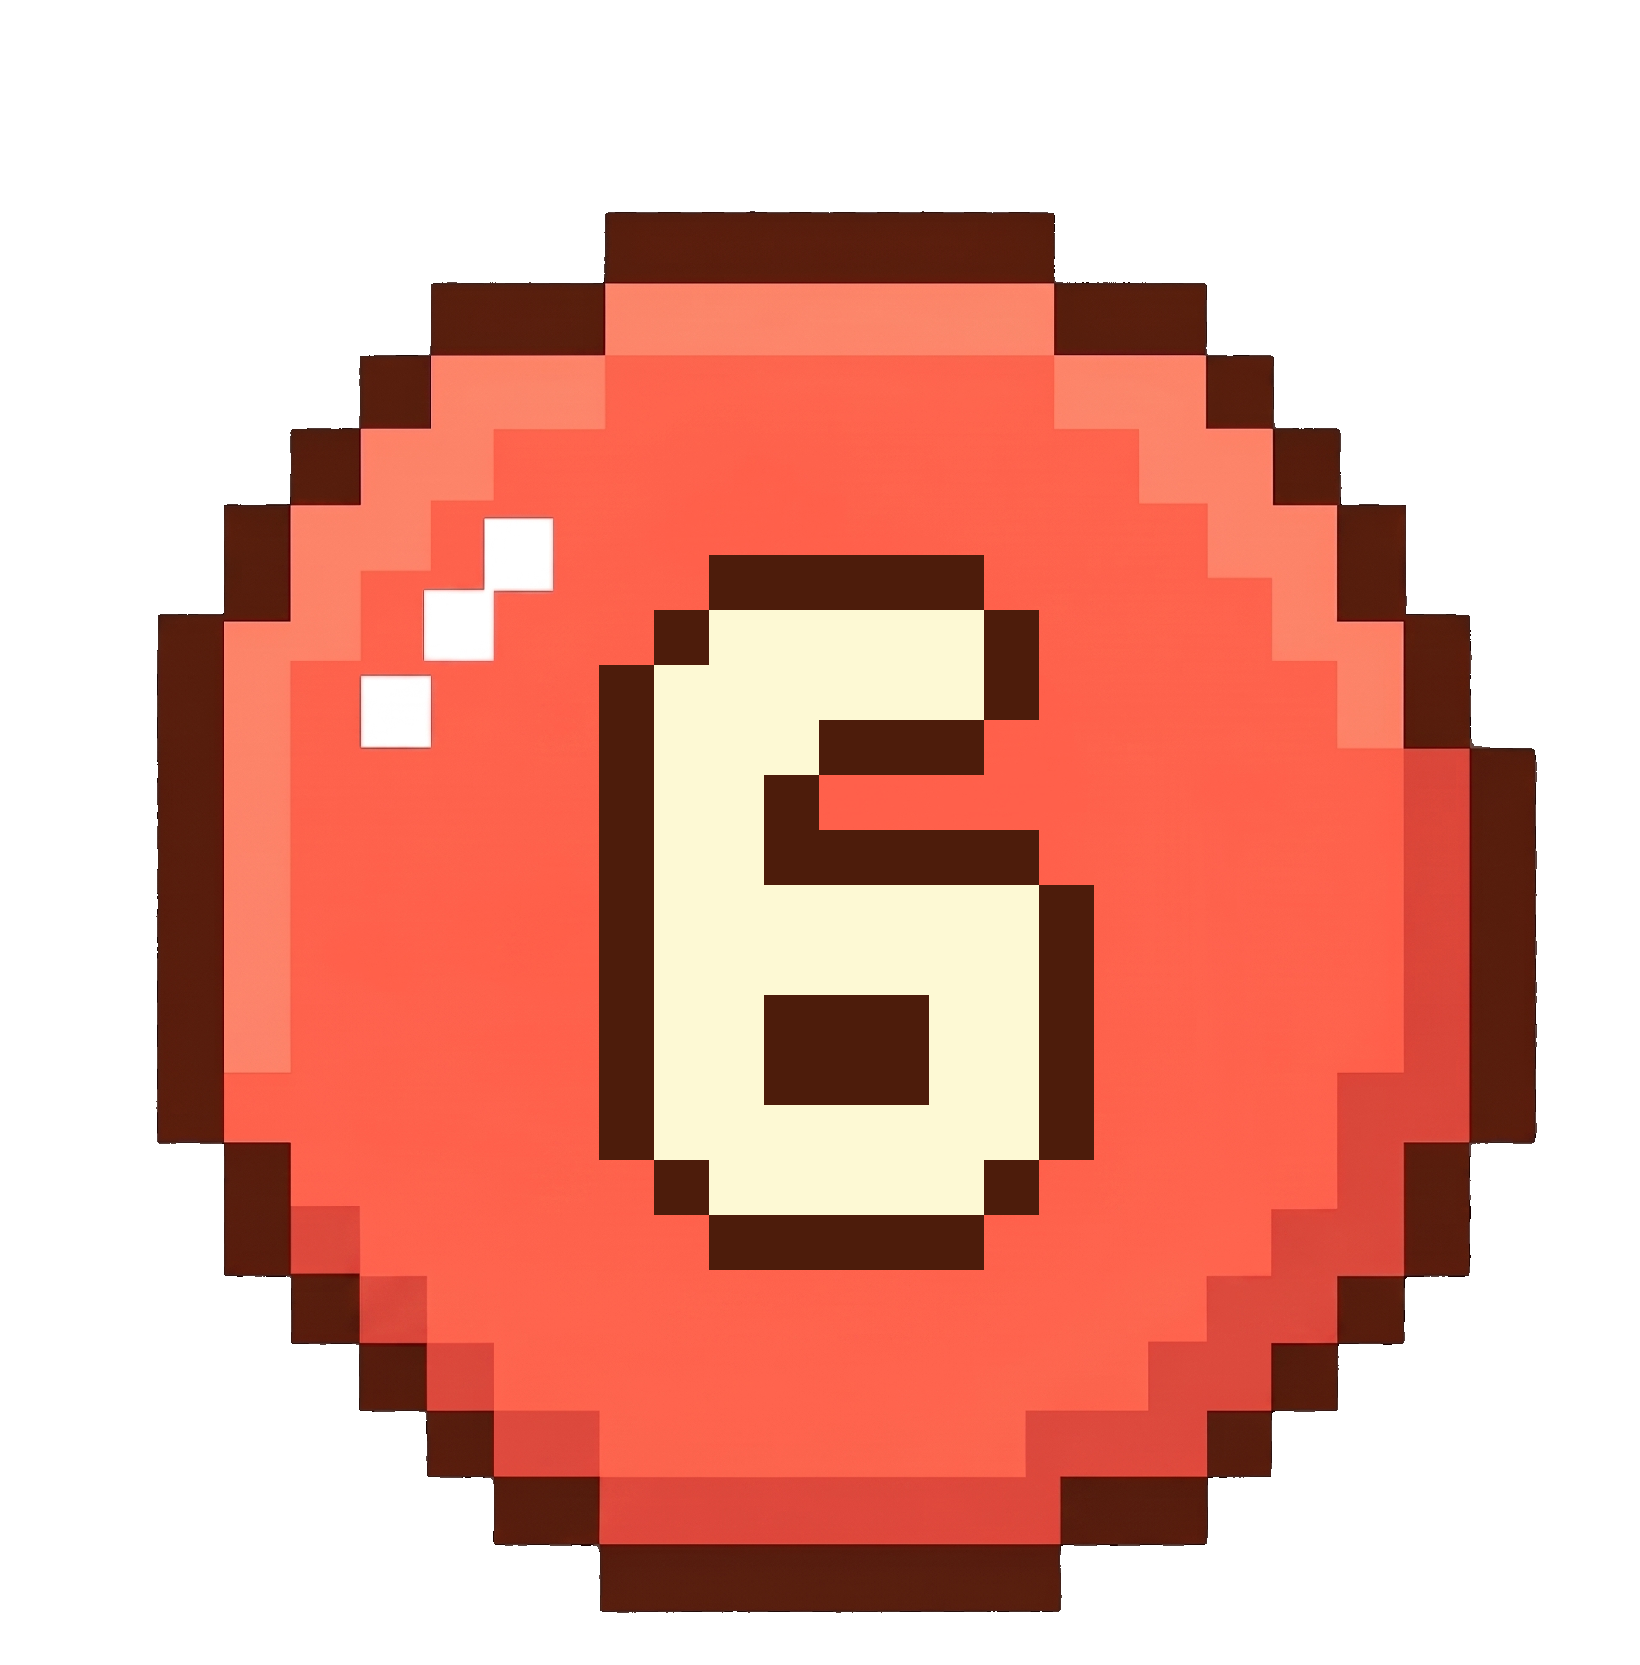
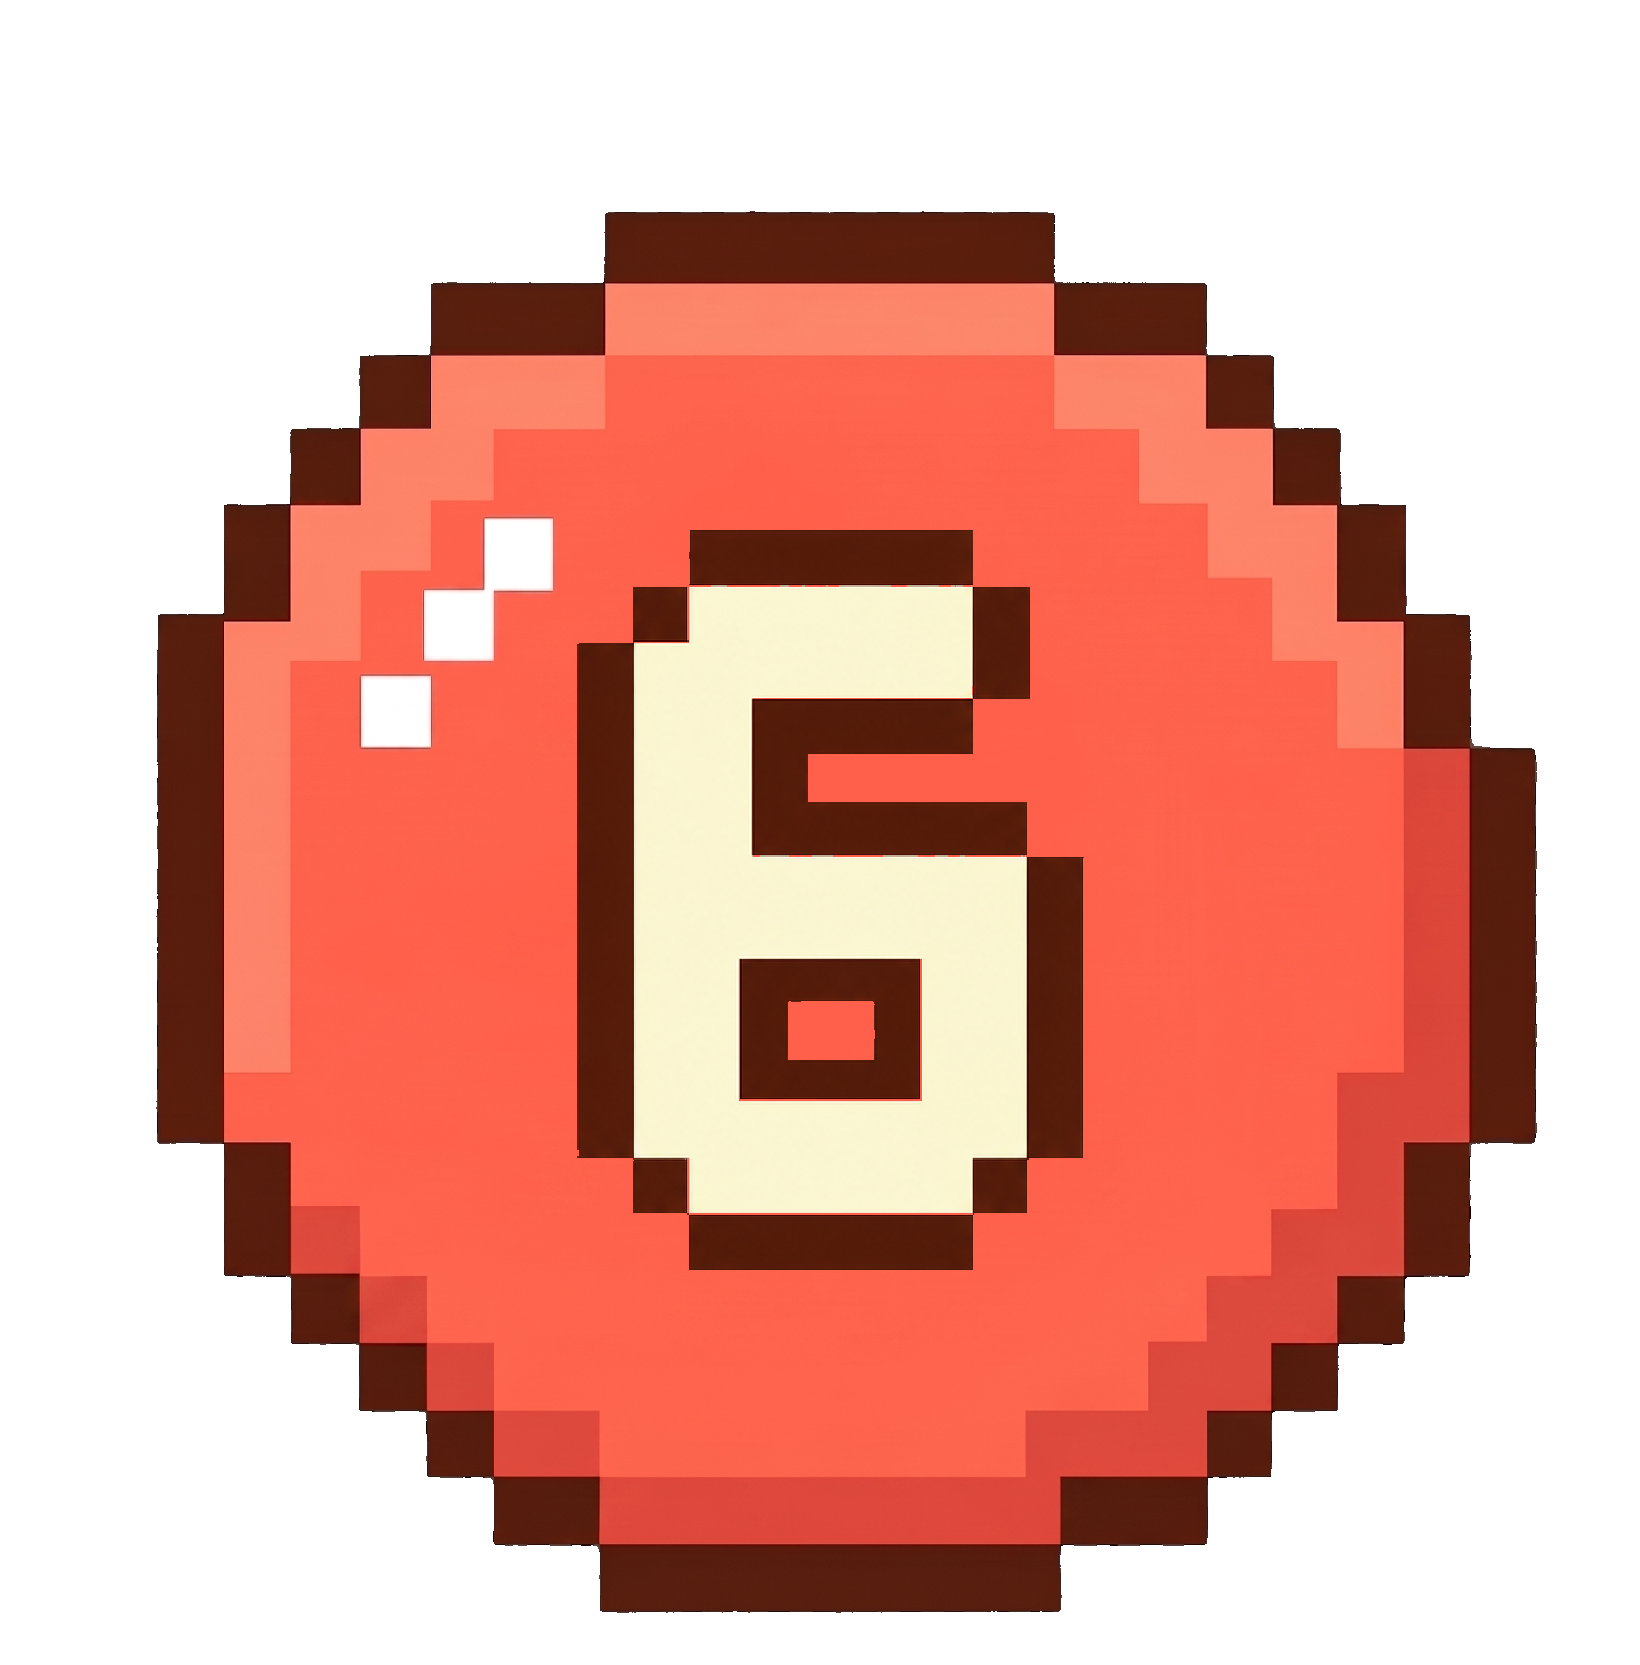
style: refine today tasks count badges

Changed region(s): [[0.3421, 0.3123, 0.6841, 0.7808], [0.4354, 0.5622, 0.5909, 0.6871]]

diff --git a/src/screens/home/components/HomeActionRail.tsx b/src/screens/home/components/HomeActionRail.tsx
@@ -23,6 +23,7 @@ const badgeImages = [
   require('../../../../assets/ui/today-tasks/today-tasks-badge-8.png'),
   require('../../../../assets/ui/today-tasks/today-tasks-badge-9.png'),
 ] as const;
+const badgeOverflowImage = require('../../../../assets/ui/today-tasks/today-tasks-badge-plus.png');
 const pixelFontFamily = 'Galmuri11';
 const pixelatedImageStyle =
   Platform.OS === 'web'
@@ -120,7 +121,11 @@ function getBadgeImage(badge: string | undefined) {
     return null;
   }
 
-  const badgeIndex = Math.max(0, Math.min(9, Math.floor(badgeNumber)));
+  if (badgeNumber > 9) {
+    return badgeOverflowImage;
+  }
+
+  const badgeIndex = Math.max(0, Math.floor(badgeNumber));
   return badgeImages[badgeIndex];
 }
 

diff --git a/src/features/goals/goalAiService.ts b/src/features/goals/goalAiService.ts
@@ -79,7 +79,7 @@ export async function generateDailyTasksForGoal(
         ? 'AI 요청이 많아 잠시 사용할 수 없어요. 잠시 후 다시 시도해 주세요.'
         : response.status === 401 || response.status === 403
           ? 'AI 서비스 인증 설정을 확인해 주세요.'
-          : 'AI 서비스 요청에 실패했어요. 잠시 후 다시 시도해 주세요.';
+          : '할 일을 만들지 못했어요. 잠시 후 다시 시도해 주세요.';
       throw new Error(message);
     }
 

diff --git a/src/features/goals/utils.ts b/src/features/goals/utils.ts
@@ -10,7 +10,8 @@ export function getRemainingTaskCount(plans: DailyPlan[]) {
 }
 
 export function getRemainingTaskBadge(plans: DailyPlan[]) {
-  return String(getRemainingTaskCount(plans));
+  const remainingTaskCount = getRemainingTaskCount(plans);
+  return remainingTaskCount > 0 ? String(remainingTaskCount) : undefined;
 }
 
 export function getCompletedNonRepeatableTaskTitles(
